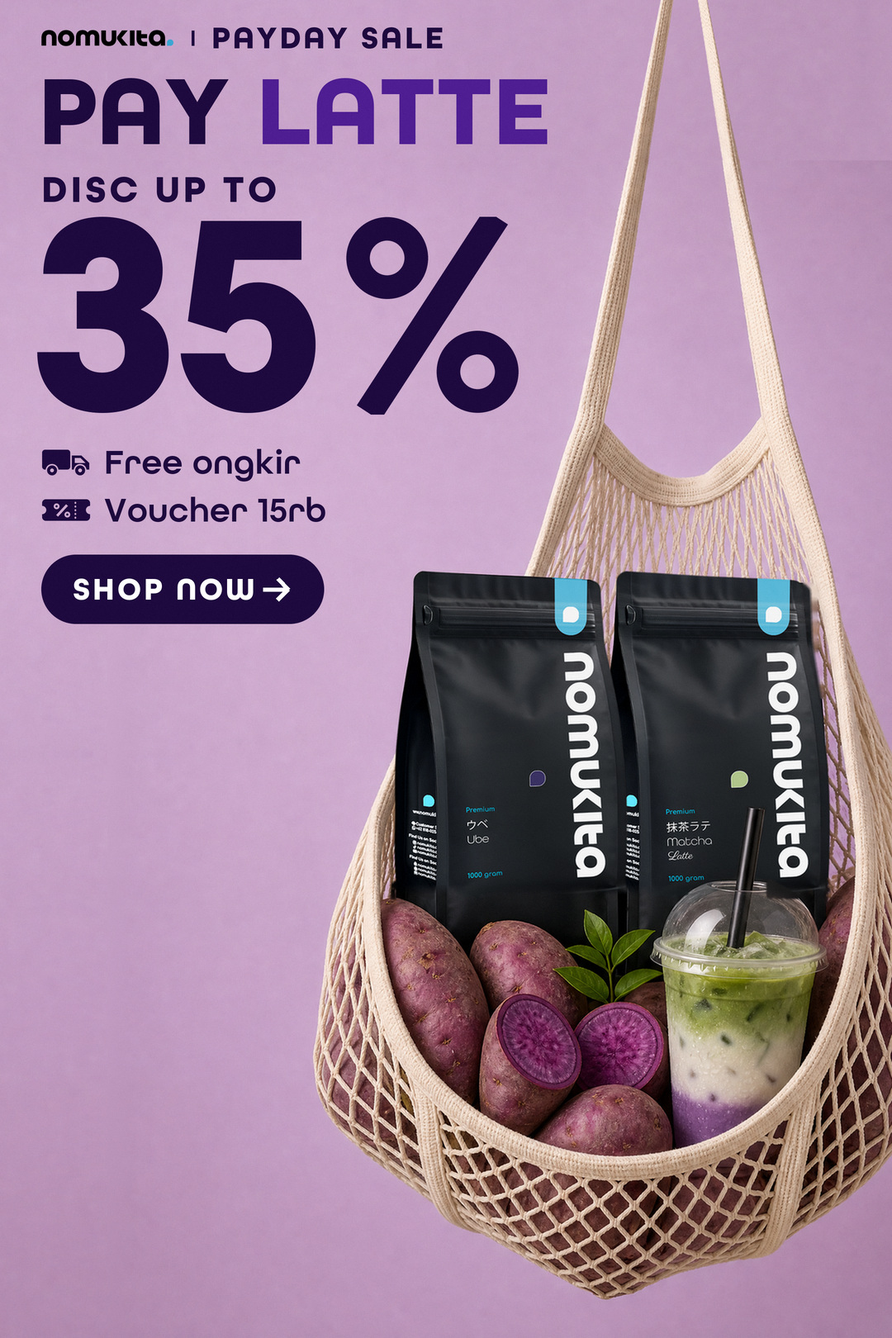
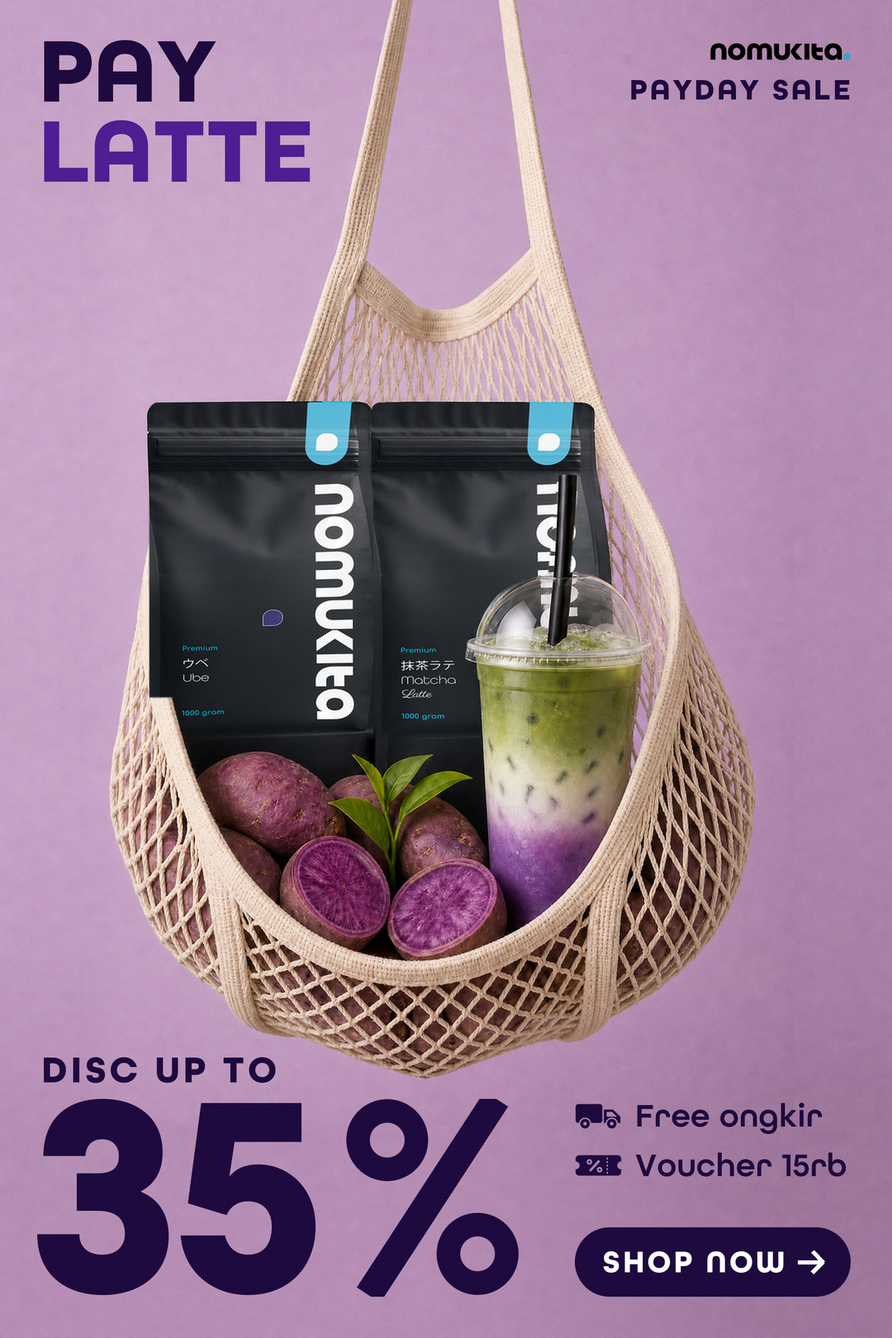
PAY LATTE v2: front-facing equal-size real pouches, hero cup, poster layout
Front panels rectified from the real Drive mockups and pasted at one
uniform size; larger cup in front; headline top, product centre, offer
band bottom (2:3) and a diagonal layout for 1:1. v1 moved to archive-v1.

Claude-Session: https://claude.ai/code/session_01Bv3a5UzTxRJwy8L4VxmgVZ

diff --git a/banners/payday-pay-latte/scripts/v2/compose_v2.py b/banners/payday-pay-latte/scripts/v2/compose_v2.py
@@ -1,0 +1,67 @@
+"""PAY LATTE payday banner v2: poster structure — headline top, product centre, offer bottom.
+Text is set in separate zones on a shared margin grid; nothing is stacked in one corner."""
+import sys, os, json
+import numpy as np
+from PIL import Image, ImageDraw
+from ptools import *
+L = json.loads(sys.argv[1]); CW, CH = L["size"]; M = L.get("margin", 50)
+bg = Image.open(L["bg"]).convert("RGB"); cv = bg.resize((CW * K, CH * K), Image.LANCZOS).convert("RGBA")
+boxes = {}
+def tw(s, fnt, tr=0): return (sum(fnt.getlength(c) for c in s)) / K + tr * (len(s) - 1)
+def put(key, x, y, s, fnt, tr=0, fill=INK, align="left"):
+    w = tw(s, fnt, tr); x0 = x - (w if align == "right" else w / 2 if align == "center" else 0)
+    text(cv, x0, y, s, fnt, tr, fill); boxes[key] = (x0, y, x0 + w, y + cap(fnt)); return x0, w
+
+# --- headline (top-left) ---
+H_ = L["head"]; fh = f(BOLD, H_["size"]); hx, hy = H_.get("x", M), H_["y"]
+if H_.get("stack", True):
+    put("PAY", hx - 4, hy, "PAY", fh, 0, INK); put("LATTE", hx - 4, hy + cap(fh) + H_.get("lead", 22), "LATTE", fh, 0, UBE)
+else:
+    x0, w = put("PAY", hx - 4, hy, "PAY ", fh, 0, INK); put("LATTE", x0 + w, hy, "LATTE", fh, 0, UBE)
+# --- brand (logo + campaign label) ---
+B = L["brand"]; lg = logo_rgba(ROOT + "/assets/logo01.jpg"); lw = B.get("logo_w", 170) * K
+lg = lg.resize((int(lw), int(lg.height * lw / lg.width)), Image.LANCZOS); lh_ = lg.height / K
+fl = f(BOLD, B.get("label", 38))
+if B["align"] == "right":
+    cv.alpha_composite(lg, (int((B["x"] - B.get("logo_w", 170)) * K), int(B["y"] * K)))
+    put("label", B["x"], B["y"] + lh_ + B.get("gap", 22), "PAYDAY SALE", fl, 3, INK, "right")
+else:
+    cv.alpha_composite(lg, (int(B["x"] * K), int(B["y"] * K))); dx = B["x"] + B.get("logo_w", 170) + 22
+    ImageDraw.Draw(cv).rectangle([dx * K, (B["y"] + 1) * K, (dx + 3) * K, (B["y"] + lh_ - 1) * K], fill=INK)
+    put("label", dx + 24, B["y"] + (lh_ - cap(fl)) / 2, "PAYDAY SALE", fl, 3, INK)
+# --- offer: DISC UP TO + 35% ---
+O = L["offer"]; fs = f(BOLD, O.get("du", 46)); dig = O["digit_h"]
+pct = pct_vec("35", dig * 0.983, INK); py = O["bottom"] - pct.height / K
+cv.alpha_composite(pct, (int((O["x"] - 5) * K), int(py * K))); boxes["35%"] = (O["x"] - 5, py, O["x"] - 5 + pct.width / K, O["bottom"])
+put("DISC UP TO", O["x"], py - O.get("gap", 20) - cap(fs), "DISC UP TO", fs, 4, INK)
+# --- benefits (vector icons) + CTA ---
+Bn = L["benefits"]; fo = f(DEMI, Bn.get("body", 40)); ih = Bn.get("icon_h", 38); bx = Bn["x"]; by = Bn["y"]
+items = [("truck", "Free ongkir"), ("ticket", "Voucher 15rb")]
+for i, (kind, s) in enumerate(items):
+    if Bn.get("row", True) is True and Bn.get("inline"):
+        pass
+    yy = by + i * Bn.get("lead", 58) if not Bn.get("inline") else by
+    xx = bx if not Bn.get("inline") or i == 0 else boxes["b0"][2] + Bn.get("sep", 44)
+    ic = icon(kind, ih, INK); cv.alpha_composite(ic, (int(xx * K), int((yy + cap(fo) / 2 - ih / 2) * K)))
+    w = tw(s, fo, 0.3); text(cv, xx + ic.width / K + 16, yy, s, fo, 0.3, INK)
+    boxes[f"b{i}"] = (xx, yy - 6, xx + ic.width / K + 16 + w, yy + cap(fo) + 6)
+C = L["cta"]; fc = f(BOLD, C.get("size", 38)); h = C.get("h", 84); aw = 30; t_w = tw("SHOP NOW", fc, 3)
+w = C.get("w") or (t_w + 2 * 38 + aw + 16); cx0 = C["x"] - (w if C.get("align") == "right" else 0); cy0 = C["bottom"] - h
+pl = Image.new("RGBA", (int(w * K * 3), int(h * K * 3)), (0, 0, 0, 0))
+ImageDraw.Draw(pl).rounded_rectangle([0, 0, pl.width - 1, pl.height - 1], radius=pl.height / 2, fill=INK + (255,))
+cv.alpha_composite(pl.resize((int(w * K), int(h * K)), Image.LANCZOS), (int(cx0 * K), int(cy0 * K)))
+tx = cx0 + (w - (t_w + 16 + aw)) / 2; text(cv, tx, cy0 + (h - cap(fc)) / 2, "SHOP NOW", fc, 3, WHITE)
+d = ImageDraw.Draw(cv); ax = (tx + t_w + 16) * K; ay = (cy0 + h / 2) * K; Lr = aw * K; th = int(5 * K)
+d.line([(ax, ay), (ax + Lr, ay)], fill=WHITE, width=th)
+d.line([(ax + Lr * 0.58, ay - Lr * 0.42), (ax + Lr + 1, ay + 1)], fill=WHITE, width=th)
+d.line([(ax + Lr * 0.58, ay + Lr * 0.42), (ax + Lr + 1, ay - 1)], fill=WHITE, width=th)
+boxes["cta"] = (cx0, cy0, cx0 + w, cy0 + h)
+print({k: tuple(round(v) for v in b) for k, b in boxes.items()})
+out = cv.convert("RGB").resize((CW, CH), Image.LANCZOS)
+a = np.asarray(out).astype(np.float32) + np.random.default_rng(11).normal(0, 1.0, (CH, CW, 1))
+out = Image.fromarray(np.clip(a, 0, 255).astype(np.uint8))
+for q in (94, 92, 90, 88):
+    out.save(L["out"], quality=q, optimize=True, progressive=True, subsampling=0)
+    if os.path.getsize(L["out"]) <= 2_000_000: break
+json.dump({k: [float(v) for v in b] for k, b in boxes.items()}, open(L["out"] + ".boxes.json", "w"))
+print("saved", L["out"], out.size, os.path.getsize(L["out"]), "bytes")

diff --git a/banners/payday-pay-latte/scripts/v2/ptools.py b/banners/payday-pay-latte/scripts/v2/ptools.py
@@ -1,0 +1,64 @@
+"""Shared drawing helpers: tracked text, vector percent block, flat vector icons."""
+import sys, os, json, math
+import numpy as np
+from PIL import Image, ImageDraw, ImageFont
+ROOT = "/tmp/claude-0/-home-user-Dom-Manipulation/cc5b59a6-6b87-5897-882c-ef3d3b14e312/scratchpad"
+sys.path.insert(0, "/home/user/Dom-Manipulation/banners/10.10-ube")
+from compose import logo_rgba
+FD = ROOT + "/assets/fonts/All Round Gothic/"
+BOLD, DEMI = FD + "Fontspring-DEMO-allroundgothic-bold.otf", FD + "Fontspring-DEMO-allroundgothic-demi.otf"
+K = 2
+INK = (30, 10, 62); UBE = (78, 30, 146); WHITE = (255, 255, 255)
+
+def f(path, size): return ImageFont.truetype(path, int(round(size * K)))
+def cap(fnt): b = fnt.getbbox("H"); return (b[3] - b[1]) / K
+def text(cv, x, y, s, fnt, tr=0, fill=INK):
+    d = ImageDraw.Draw(cv); X = x * K; top = fnt.getbbox("H")[1]
+    for c in s:
+        d.text((X, y * K - top), c, font=fnt, fill=fill); X += fnt.getlength(c) + tr * K
+    return (X - tr * K) / K - x
+
+def pct_vec(digits, digit_h, color):
+    """Digits from the Bold font + a vector % (locked in the DEMO font), figure height = digit_h px."""
+    fb = ImageFont.truetype(BOLD, 400); b5 = fb.getbbox("5"); size = 400 * digit_h * K / (b5[3] - b5[1])
+    fb = ImageFont.truetype(BOLD, int(round(size))); bb = [fb.getbbox(c) for c in digits]
+    top = min(b[1] for b in bb); H = max(b[3] for b in bb) - top
+    t = 0.135 * size; r = 0.142 * size; ring = 0.082 * size; wp = 0.60 * size; gap = 0.075 * size
+    wd = sum(fb.getlength(c) for c in digits) - 0.02 * size * (len(digits) - 1)
+    Wt = int(wd + gap + wp + 8); ss = 3
+    lay = Image.new("RGBA", (Wt, int(H + 8)), (0, 0, 0, 0)); d = ImageDraw.Draw(lay); x = 0
+    for c in digits:
+        d.text((x, -top), c, font=fb, fill=color + (255,)); x += fb.getlength(c) - 0.02 * size
+    m = Image.new("L", (int((wp + 4) * ss), int((H + 4) * ss)), 0); md = ImageDraw.Draw(m)
+    Rr = r * ss; RI = (r - ring) * ss; c1 = (Rr + 2, Rr + 2); c2 = (wp * ss - Rr - 2, H * ss - Rr - 2)
+    for c0 in (c1, c2):
+        md.ellipse([c0[0] - Rr, c0[1] - Rr, c0[0] + Rr, c0[1] + Rr], fill=255); md.ellipse([c0[0] - RI, c0[1] - RI, c0[0] + RI, c0[1] + RI], fill=0)
+    q1 = (wp * ss - r * 0.55 * ss, 0); q2 = (r * 0.55 * ss, H * ss); dx, dy = q2[0] - q1[0], q2[1] - q1[1]; Ln = math.hypot(dx, dy)
+    nx, ny = -dy / Ln, dx / Ln; th = t * 0.72 / 2 * ss
+    md.polygon([(q1[0] + nx * th, q1[1] + ny * th), (q1[0] - nx * th, q1[1] - ny * th), (q2[0] - nx * th, q2[1] - ny * th), (q2[0] + nx * th, q2[1] + ny * th)], fill=255)
+    m = m.resize((int(wp + 4), int(H + 4)), Image.LANCZOS)
+    col = Image.new("RGBA", m.size, color + (255,)); col.putalpha(m); lay.alpha_composite(col, (int(wd + gap), 0))
+    return lay.crop(lay.getbbox())
+
+def icon(kind, h, color):
+    """Flat vector icons drawn on a 120x80 grid: delivery truck / voucher ticket."""
+    ss = 8; W0, H0 = 120, 80
+    m = Image.new("L", (W0 * ss, H0 * ss), 0); d = ImageDraw.Draw(m)
+    def R(box, rad, fill=255): d.rounded_rectangle([v * ss for v in box], radius=rad * ss, fill=fill)
+    def C(cx, cy, r, fill=255): d.ellipse([(cx - r) * ss, (cy - r) * ss, (cx + r) * ss, (cy + r) * ss], fill=fill)
+    if kind == "truck":
+        R((2, 10, 70, 58), 7)                                           # cargo box
+        d.polygon([(v[0] * ss, v[1] * ss) for v in [(74, 24), (97, 24), (116, 42), (116, 58), (74, 58)]], fill=255)   # cab
+        R((74, 24, 100, 58), 5); R((96, 40, 116, 58), 5)
+        d.polygon([(v[0] * ss, v[1] * ss) for v in [(81, 30), (95, 30), (107, 42), (81, 42)]], fill=0)                # window
+        for cx in (26, 94):
+            C(cx, 60, 15.5, 0); C(cx, 60, 12); C(cx, 60, 4.6, 0)        # wheels with a gap ring
+    else:
+        R((2, 14, 118, 66), 9)                                          # ticket body
+        C(2, 40, 10, 0); C(118, 40, 10, 0)                              # side notches
+        for y in range(20, 64, 9): R((80.5, y, 84.5, y + 5), 2, 0)      # perforation
+        d.polygon([(v[0] * ss, v[1] * ss) for v in [(36, 52), (60, 26), (64.5, 30), (40.5, 56)]], fill=0)             # small % mark
+        C(37, 31, 7, 0); C(37, 31, 2.6); C(63, 51, 7, 0); C(63, 51, 2.6)
+    w = round(h * K * W0 / H0); m = m.resize((w, int(h * K)), Image.LANCZOS)
+    lay = Image.new("RGBA", m.size, color + (255,)); lay.putalpha(m); return lay
+

diff --git a/banners/payday-pay-latte/scripts/v2/place_scene.py b/banners/payday-pay-latte/scripts/v2/place_scene.py
@@ -1,0 +1,59 @@
+"""Place the photographed scene on a canvas at scale S with its top-left at (ox, oy), without AI:
+the plain lilac backdrop is continued on every side with the scene's own texture, and the two handle
+straps are continued straight up to the top edge keeping their slope and taper."""
+import numpy as np, cv2
+from PIL import Image
+
+def place(scene_path, CW, CH, S, ox, oy, out):
+    A = np.asarray(Image.open(scene_path).convert('RGB')).astype(np.float32)
+    H, W, _ = A.shape
+    Lp = max(0, int(np.ceil(ox / S)) + 2); Rp = max(0, int(np.ceil((CW - ox) / S - W)) + 2)
+    Tp = max(0, int(np.ceil(oy / S)) + 2); Bp = max(0, int(np.ceil((CH - oy) / S - H)) + 2)
+    sm = lambda v, s: cv2.GaussianBlur(v, (0, 0), sigmaX=0.1, sigmaY=s)
+    rowL = sm(A[:, 4:34].mean(axis=1, keepdims=True), 30); rowR = sm(A[:, -34:-4].mean(axis=1, keepdims=True), 30)   # margins clear of the bag (x 46..1016)
+    def band(rows, ref):
+        b = A[rows].mean(axis=0); d = np.abs(b - ref).max(axis=1) > 14
+        d = cv2.dilate(d.astype(np.uint8)[None], np.ones((1, 41), np.uint8))[0].astype(bool); xs = np.arange(W)
+        for c in range(3): b[d, c] = np.interp(xs[d], xs[~d], b[~d, c])
+        return cv2.GaussianBlur(b[None], (0, 0), 30)[0]
+    top = band(slice(4, 24), (rowL[10, 0] + rowR[10, 0]) / 2); bot = band(slice(H - 24, H - 4), (rowL[-10, 0] + rowR[-10, 0]) / 2)
+    patch = A[0:420, 0:330]; tex = patch - cv2.GaussianBlur(patch, (0, 0), 25)
+    tile = np.vstack([np.hstack([tex, tex[:, ::-1]]), np.hstack([tex[::-1], tex[::-1, ::-1]])])
+    def texture(h, w, oy_=0, ox_=0):
+        reps = (int(np.ceil((h + oy_) / tile.shape[0])), int(np.ceil((w + ox_) / tile.shape[1])), 1)
+        return np.tile(tile, reps)[oy_:oy_ + h, ox_:ox_ + w]
+    He, We = Tp + H + Bp, Lp + W + Rp
+    E = np.zeros((He, We, 3), np.float32)
+    # low-frequency backdrop field for the pads
+    colbot = np.vstack([np.repeat(bot[:1], Lp, axis=0), bot, np.repeat(bot[-1:], Rp, axis=0)])
+    coltop = np.vstack([np.repeat(top[:1], Lp, axis=0), top, np.repeat(top[-1:], Rp, axis=0)])
+    if Tp: E[:Tp] = coltop[None] + texture(Tp, We, 37, 5)
+    if Bp: E[Tp + H:] = colbot[None] + texture(Bp, We, 11, 71)
+    if Lp: E[Tp:Tp + H, :Lp] = rowL + texture(H, Lp, 0, 111)
+    if Rp: E[Tp:Tp + H, Lp + W:] = rowR + texture(H, Rp, 90, 13)
+    E[Tp:Tp + H, Lp:Lp + W] = A
+    # straps continued upward
+    if Tp:
+        N = 240; rc = (rowL[:N] + rowR[:N]) / 2
+        m = (np.abs(A[:N] - rc).max(axis=2) > 22).astype(np.uint8)
+        n, lab, st, _ = cv2.connectedComponentsWithStats(m); X = np.arange(W, dtype=np.float32)
+        for i in [i for i in range(1, n) if st[i, cv2.CC_STAT_HEIGHT] > N * 0.9]:
+            comp = (lab == i); soft = cv2.GaussianBlur(comp.astype(np.float32), (0, 0), 1.0); ys = np.arange(N)
+            le = np.array([np.where(comp[y])[0].min() for y in ys]); ri = np.array([np.where(comp[y])[0].max() for y in ys])
+            cb, ca = np.polyfit(ys, (le + ri) / 2.0, 1); wb, wa = np.polyfit(ys, (ri - le).astype(float), 1)
+            for j in range(1, Tp + 1):
+                ys_ = (j - 1) % (2 * N); ys_ = ys_ if ys_ < N else 2 * N - 1 - ys_
+                cd, wd = ca + cb * (-j), max(10.0, wa + wb * (-j)); cs, ws = ca + cb * ys_, wa + wb * ys_
+                u = (X - cd) * (ws / wd) + cs
+                a = np.interp(u, X, soft[ys_], left=0, right=0)[:, None]
+                rgb = np.stack([np.interp(u, X, A[ys_, :, c]) for c in range(3)], axis=1)
+                seg = E[Tp - j, Lp:Lp + W]; E[Tp - j, Lp:Lp + W] = seg * (1 - a) + rgb * a
+            print("  strap: centre at scene top", round(float(ca)), "slope", round(float(cb), 3), "width", round(float(wa)), "-> centre at canvas top", round(ox + S * (ca + cb * (-Tp))))
+    img = Image.fromarray(np.clip(E, 0, 255).astype(np.uint8))
+    img = img.resize((round(We * S), round(He * S)), Image.LANCZOS)
+    cv = Image.new('RGB', (CW, CH)); cv.paste(img, (round(ox - Lp * S), round(oy - Tp * S))); cv.save(out)
+    print(out, "S", S, "at", (ox, oy), "pads LRTB", Lp, Rp, Tp, Bp)
+
+if __name__ == "__main__":
+    import sys; a = sys.argv
+    place(a[1], int(a[2]), int(a[3]), float(a[4]), float(a[5]), float(a[6]), a[7])

diff --git a/banners/payday-pay-latte/scripts/v2/repouch2.py b/banners/payday-pay-latte/scripts/v2/repouch2.py
@@ -1,0 +1,49 @@
+"""Paste the real front panels (rectified from the Drive mockups) over the AI pouches of H_A.png.
+Both pouches get exactly the same size and the real aspect ratio; the cup, dome, straw, yams and leaves stay in front."""
+import cv2, numpy as np
+from PIL import Image, ImageDraw
+ai = np.asarray(Image.open('H_A.png').convert('RGB')).astype(np.float32); Hh, Ww, _ = ai.shape
+PW, TOP = 486, 748
+POS = {'matcha': 624, 'ube': 146}
+lum = ai.mean(axis=2); sat = ai.max(axis=2) - ai.min(axis=2); R, G, B = ai[..., 0], ai[..., 1], ai[..., 2]
+ys = np.arange(Hh)[:, None]; xs = np.arange(Ww)[None, :]
+def poly(pts):
+    im = Image.new('L', (Ww, Hh), 0); ImageDraw.Draw(im).polygon(pts, fill=255); return np.asarray(im) > 0
+def front(name):
+    p = Image.open(f'front_{name}.png').convert('RGBA').crop((0, 0, 668, 1004))
+    m = Image.new('L', p.size, 0); ImageDraw.Draw(m).rounded_rectangle([0, 0, p.width - 1, p.height + 60], radius=22, fill=255)
+    p.putalpha(Image.fromarray(np.minimum(np.asarray(p)[..., 3], np.asarray(m))))
+    p = p.resize((PW, round(p.height * PW / p.width)), Image.LANCZOS)
+    lay = Image.new('RGBA', (Ww, Hh), (0, 0, 0, 0)); lay.paste(p, (POS[name], TOP)); a = np.asarray(lay).astype(np.float32)
+    return a[..., :3], a[..., 3] / 255.0, p.size
+cup = poly([(832, 1270), (848, 1218), (884, 1172), (930, 1141), (990, 1121), (1060, 1114), (1130, 1121), (1190, 1141), (1240, 1175),
+            (1260, 1270), (1260, 1340), (1230, 1700), (880, 1700), (850, 1340), (826, 1330)])
+straw = poly([(1028, 902), (1072, 904), (1052, 1130), (1006, 1128)])
+cream = (R - B > 22) & (lum > 120) & (xs < 300) & (ys > 1385)
+cream = cv2.dilate(cream.astype(np.uint8), np.ones((5, 5), np.uint8)).astype(bool)
+low = (ys > 1470) & (lum > 62) & (sat > 24)                      # yams and leaves
+low = cv2.dilate(cv2.morphologyEx(low.astype(np.uint8), cv2.MORPH_OPEN, np.ones((5, 5), np.uint8)), np.ones((5, 5), np.uint8)).astype(bool)
+occ = cup | straw | low | cream
+out = ai.copy()
+# AI print left under / below the real print (its taller layout): paint it back to plain film
+zone = (ys > 1436) & (ys < 1505) & (xs > 150) & (xs < 1106) & ~occ
+ghost = cv2.dilate((zone & ((lum > 70) | (B - R > 25))).astype(np.uint8), np.ones((7, 7), np.uint8)).astype(np.float32)
+film_m = (zone & (lum < 55)).astype(np.float32)
+film = cv2.GaussianBlur(ai * film_m[..., None], (0, 0), 14) / np.maximum(cv2.GaussianBlur(film_m, (0, 0), 14), 1e-3)[..., None]
+g = cv2.GaussianBlur(ghost, (0, 0), 1.5)[..., None] * (cv2.GaussianBlur(film_m, (0, 0), 14) > 0.02)[..., None]
+out = out * (1 - g) + film * g
+print("AI print px painted out below the real print:", int(ghost.sum()))
+for name in ('matcha', 'ube'):
+    rgb, al, size = front(name); rl = rgb.mean(axis=2)
+    valid = ((al > 0.98) & (rl < 70) & (lum < 70) & ~occ).astype(np.float32)
+    num = cv2.GaussianBlur(lum * valid, (0, 0), 30); den = cv2.GaussianBlur(rl * valid, (0, 0), 30); ws = cv2.GaussianBlur(valid, (0, 0), 30)
+    ratio = np.clip(np.where(ws > 0.02, (num + 2) / (den + 2), 1.0), 0.78, 1.25)
+    keep = np.clip((rl - 70) / 70.0, 0, 1); ratio = ratio * (1 - keep) + np.maximum(ratio, 0.97) * keep
+    P = np.clip(rgb * ratio[..., None], 0, 255)
+    fade = np.clip((TOP + size[1] - 3 - ys) / 26.0, 0, 1)            # soft bottom edge into the AI film below
+    a = cv2.erode((al * 255).astype(np.uint8), np.ones((3, 3), np.uint8)).astype(np.float32) / 255
+    a = a * fade * (1 - cv2.GaussianBlur(occ.astype(np.float32), (0, 0), 1.2)); a = cv2.GaussianBlur(a, (0, 0), 0.7)[..., None]
+    out = out * (1 - a) + P * a
+    print(name, "pasted", size, "at x", POS[name], "-", POS[name] + size[0], "y", TOP, "-", TOP + size[1], "aspect", round(size[0] / size[1], 4))
+# any AI pouch film still showing outside the two real silhouettes (above the yams)?
+Image.fromarray(np.clip(out, 0, 255).astype(np.uint8)).save('H_REAL.png')

diff --git a/banners/payday-pay-latte/scripts/v2/guide.py b/banners/payday-pay-latte/scripts/v2/guide.py
@@ -1,0 +1,48 @@
+"""Guide composite: the two REAL rectified fronts at exactly the same size inside scene B; AI then only harmonizes."""
+import numpy as np, cv2, json
+from PIL import Image, ImageDraw
+B = Image.open('V2_B.png').convert('RGB'); Bn = np.asarray(B).astype(np.float32); Hh, Ww = Bn.shape[:2]
+PW = 470; TOP = 745; XU, XM = 150, 622
+def front(name):
+    p = Image.open(f'front_{name}.png').convert('RGBA').crop((0, 0, 668, 1004))      # front panel only (no side bulge, no base curve)
+    m = Image.new('L', p.size, 0); ImageDraw.Draw(m).rounded_rectangle([0, 0, p.width - 1, p.height + 60], radius=22, fill=255)
+    p.putalpha(Image.fromarray(np.minimum(np.asarray(p)[..., 3], np.asarray(m))))
+    return p.resize((PW, round(p.height * PW / p.width)), Image.LANCZOS)
+u, m = front('ube'), front('matcha'); print("pouch px", u.size, "aspect", round(u.width / u.height, 4))
+# remove what is left of the wider AI pouch on the right (it is now uncovered): rough fill, the harmonize pass redraws it
+lum0 = Bn.mean(axis=2); ys0 = np.arange(Hh)[:, None]; xs0 = np.arange(Ww)[None, :]
+rem = np.zeros((Hh, Ww), np.uint8)
+rem[735:1250, XM + PW - 8:1240] = 1                                   # everything right of the new pouch edge, down to the lid
+im_ = Image.new('L', (Ww, Hh), 0); ImageDraw.Draw(im_).polygon([(978, 885), (1040, 885), (1030, 1105), (968, 1105)], fill=255)
+rem[np.asarray(im_) > 0] = 0                                           # keep the straw
+keep_hi = (lum0 > 150) & (Bn[..., 0] - Bn[..., 2] > 12) & (xs0 > 1195)  # keep the bag rim / mesh at the far right
+rem[keep_hi] = 0
+Bf = cv2.inpaint(np.clip(Bn, 0, 255).astype(np.uint8), rem * 255, 12, cv2.INPAINT_TELEA)
+# plain black film below the real pouches, down to the yams (hides the AI print that would peek out)
+Bf[1440:1560, XU + 8:XM + PW - 8] = (24, 25, 30)
+B = Image.fromarray(Bf); 
+cv = B.convert('RGBA'); cv.alpha_composite(m, (XM, TOP)); cv.alpha_composite(u, (XU, TOP))
+C = np.asarray(cv.convert('RGB')).astype(np.float32)
+lum = Bn.mean(axis=2); R, G, Bl = Bn[..., 0], Bn[..., 1], Bn[..., 2]; ys = np.arange(Hh)[:, None]; xs = np.arange(Ww)[None, :]
+cream = (R - Bl > 22) & (lum > 120) & (xs < 330) & (ys > 1150)
+low = (ys > 1445) & (lum > 62) & ~((Bl - R > 35) & (G > 100)) & ~((np.abs(R - Bl) < 16) & (lum > 110))
+def poly(pts):
+    im = Image.new('L', (Ww, Hh), 0); ImageDraw.Draw(im).polygon(pts, fill=255); return np.asarray(im) > 0
+cup = poly([(812, 1232), (1212, 1232), (1212, 1290), (1190, 1300), (1150, 1900), (880, 1900), (838, 1300), (812, 1290)])
+straw = poly([(986, 893), (1032, 893), (1022, 1100), (976, 1100)])
+dome = poly([(815, 1250), (832, 1190), (870, 1135), (930, 1100), (1010, 1088), (1090, 1100), (1150, 1135), (1190, 1190), (1208, 1250)])
+Bn = np.asarray(B).astype(np.float32)   # B now = inpainted version
+fg = cream | low | cup | straw
+fg = cv2.morphologyEx(fg.astype(np.uint8), cv2.MORPH_OPEN, np.ones((3, 3), np.uint8)).astype(np.float32)
+a = cv2.GaussianBlur(fg, (0, 0), 1.0)[..., None]
+Borig = np.asarray(Image.open('V2_B.png').convert('RGB')).astype(np.float32)
+out = C * (1 - a) + Borig * a
+# dome: add only its bright reflections over what is now behind it
+hl = np.clip((Borig.mean(axis=2) - 150) / 60.0, 0, 1) * dome * (np.abs(Borig[..., 0] - Borig[..., 2]) < 26) * ~((xs > 1075) & (xs < 1170) & (ys < 1245))
+hl = cv2.GaussianBlur(hl.astype(np.float32), (0, 0), 1.2)[..., None] * 0.8
+out = out * (1 - hl) + 255 * hl
+# through the dome, right of the new pouch edge, nothing dark should remain
+
+Image.fromarray(np.clip(out, 0, 255).astype(np.uint8)).save('guide2.png')
+json.dump(dict(PW=PW, PH=u.height, TOP=TOP, XU=XU, XM=XM), open('guide2.json', 'w'))
+Image.fromarray(np.clip(out, 0, 255).astype(np.uint8)).crop((100, 620, 1320, 1700)).resize((915, 810)).save('guide2_t.jpg', quality=90)

diff --git a/banners/payday-pay-latte/scripts/v2/rectify.py b/banners/payday-pay-latte/scripts/v2/rectify.py
@@ -1,0 +1,23 @@
+"""Turn the angled Drive mockup into a front view: perspective-rectify the FRONT panel (real pixels, only warped),
+drop the side gusset, round the cut corners. Output: v2/front_<name>.png (RGBA)."""
+import cv2, numpy as np, sys
+from PIL import Image, ImageDraw
+W, H = 656, 982
+SRC = np.float32([[165, 28], [676, 46], [733, 985], [190, 1010]])     # front panel corners in the 800x1091 mockup
+DST = np.float32([[0, 0], [W, 0], [W, H], [0, H]])
+M = cv2.getPerspectiveTransform(SRC, DST)
+PADR, PADB = 60, 70                                                    # room for the bulging right edge and the base curve
+for name in ('ube', 'matcha'):
+    p = np.asarray(Image.open(f'mock_{name}_1000.png').convert('RGBA')).astype(np.float32)
+    out = cv2.warpPerspective(p, M, (W + PADR, H + PADB), flags=cv2.INTER_LANCZOS4, borderValue=0)
+    a = out[..., 3] / 255.0
+    # left side: cut at the fold, with rounded top-left / bottom-left corners like the real pouch
+    m = Image.new('L', (W + PADR, H + PADB), 0); d = ImageDraw.Draw(m)
+    d.rounded_rectangle([2, 0, W + PADR + 200, H + PADB + 200], radius=26, fill=255)
+    a = np.minimum(a, np.asarray(m).astype(np.float32) / 255.0)
+    a = cv2.GaussianBlur(a, (0, 0), 0.8)
+    out[..., 3] = a * 255
+    im = Image.fromarray(np.clip(out, 0, 255).astype(np.uint8), 'RGBA'); im = im.crop(im.getbbox()); im.save(f'v2/front_{name}.png')
+    print(name, im.size)
+a = Image.open('v2/front_ube.png'); b = Image.open('v2/front_matcha.png')
+s = Image.new('RGB', (a.width + b.width + 60, a.height + 40), (205, 172, 206)); s.paste(a, (20, 20), a); s.paste(b, (a.width + 40, 20), b); s.save('v2/fronts.jpg', quality=92)

diff --git a/banners/payday-pay-latte/scripts/v2/verify2.py b/banners/payday-pay-latte/scripts/v2/verify2.py
@@ -1,0 +1,20 @@
+import sys, json, numpy as np, os
+from PIL import Image
+out, bgp = sys.argv[1], sys.argv[2]
+im = Image.open(out); a = np.asarray(im.convert('RGB')).astype(float); bx = json.load(open(out + '.boxes.json'))
+x0, y0, x1, y1 = [int(v) for v in bx['35%']]
+ink = (a[..., 0] < 80) & (a[..., 2] < 130) & (a[..., 1] < 60)
+r = np.where(ink[y0 - 4:y1 + 4, x0:x0 + 330].sum(axis=1) > 8)[0]
+print(os.path.basename(out), im.size, os.path.getsize(out), "bytes | digit height", r.max() - r.min() + 1, "px =", round(100 * (r.max() - r.min() + 1) / im.width, 2), "% of width")
+bg = np.asarray(Image.open(bgp).convert('RGB')).astype(float)
+def rl(c):
+    c = c / 255; c = np.where(c <= 0.03928, c / 12.92, ((c + 0.055) / 1.055) ** 2.4); return 0.2126 * c[..., 0] + 0.7152 * c[..., 1] + 0.0722 * c[..., 2]
+Lm = rl(bg); ink_l = rl(np.array([[30, 10, 62]], float))[0]; ube_l = rl(np.array([[78, 30, 146]], float))[0]
+cr = lambda p, q: (max(p, q) + 0.05) / (min(p, q) + 0.05)
+for k, b in bx.items():
+    X0, Y0, X1, Y1 = [int(round(v)) for v in b]; reg = Lm[Y0:Y1, X0:X1]; lo, hi = np.percentile(reg, 5), np.percentile(reg, 95)
+    c = ube_l if k == 'LATTE' else ink_l
+    med = np.median(bg[Y0:Y1, X0:X1].reshape(-1, 3), axis=0); obj = (np.abs(bg[Y0:Y1, X0:X1] - med).max(axis=2) > 30).mean()
+    # clearance: nearest photo object around the box
+    pad = 24; reg2 = bg[max(0, Y0 - pad):Y1 + pad, max(0, X0 - pad):X1 + pad]; near = (np.abs(reg2 - med).max(axis=2) > 30).mean()
+    print(f"  {k:11s} contrast {min(cr(c, lo), cr(c, hi)):.1f}:1 | photo under text {100 * obj:.1f}% | photo within 24 px {100 * near:.1f}%")

diff --git a/banners/payday-pay-latte/README.md b/banners/payday-pay-latte/README.md
@@ -1,9 +1,42 @@
 # PAY LATTE, banner payday (Ube & Matcha Latte 1000 g, Ube Matcha Latte)
 
-File
-- `pay-latte-payday-1080x1620.jpg` (2:3, 0,51 MB)
+File (versi 2, aktif)
+- `pay-latte-payday-1080x1620.jpg` (2:3, 0,52 MB)
 - `pay-latte-payday-1080x1080.jpg` (1:1, 0,34 MB)
+- Versi pertama (pouch miring, teks menumpuk di kiri atas, cup kecil) ada di `archive-v1/`.
 
+Versi 2: apa yang diubah
+- Pouch menghadap DEPAN. Di Drive tidak ada foto 1000 g tampak depan (semua file memakai mockup miring yang sama),
+  jadi panel depan mockup asli diluruskan dengan transformasi perspektif (`scripts/v2/rectify.py`): cetakannya tetap
+  piksel dari file asli, panel samping dibuang.
+- Kedua pouch berukuran SAMA PERSIS: 486 x 730 px pada foto 1536 x 2304 (rasio 0,666 = rasio panel depan mockup).
+  Varian AI pertama menggambar Matcha Latte lebih lebar dari Ube; sekarang dua panel depan asli ditempel dengan skala
+  seragam yang sama (`scripts/v2/repouch2.py`). Cup, tutup kubah, sedotan, ube, dan daun tetap di depan pouch.
+  Di balik tutup kubah yang bening dan di bawah garis ube, yang terlihat adalah pouch versi AI.
+- Minuman jadi tokoh utama: cup Ube Matcha Latte besar di depan kanan, terlihat langsung (tidak di balik jaring).
+- Struktur poster, teks tidak lagi menumpuk di satu sudut:
+  - 2:3: judul PAY LATTE kiri atas, logo + PAYDAY SALE kanan atas, tas di tengah, lalu pita bawah:
+    DISC UP TO 35% di kiri, Free ongkir / Voucher 15rb / SHOP NOW di kanan.
+  - 1:1: judul + 35% kiri atas, tas kanan bawah, Free ongkir / Voucher 15rb / SHOP NOW kiri bawah.
+- Tas ditaruh dan diperbesar tanpa AI (`scripts/v2/place_scene.py`): latar lilac dan tali tas dilanjutkan dari foto.
+
+Alur foto v2
+1. `source/v2-scene-ai-raw.jpg`: scene AI (GPT Image 2) dengan panel depan asli sebagai acuan.
+2. `source/v2-guide-real-pouches.jpg`: dua panel depan asli ditempel dengan ukuran sama.
+3. `source/v2-harmonized-ai.jpg`: AI merapikan sambungan, tutup kubah, dan area di kanan pouch.
+4. `source/v2-scene-final-real-print.jpg`: cetakan asli ditempel ulang dengan skala seragam.
+
+Pengukuran v2 (`scripts/v2/verify2.py`)
+- Tinggi angka 35 = 237 px (21,94% lebar) di kedua ukuran.
+- Kontras terburuk 2:3: PAY 7,7:1, LATTE 4,9:1, PAYDAY SALE 5,9:1, DISC UP TO 6,7:1, 35% 6,1:1, manfaat 4,7:1, tombol 4,7:1
+  terhadap latar (teks putih di tombol 18:1). Pita bawah lebih rendah karena latar foto lebih gelap di bawah.
+- Kontras terburuk 1:1: 7,0:1 sampai 8,0:1 untuk semua teks, LATTE 4,7:1.
+- Tidak ada objek foto di bawah teks maupun dalam jarak 24 px dari blok teks.
+
+Kredit kie.ai v2: 50 (3 varian scene + 2 varian perapian), dari key baru. Saldo key baru 8.586.
+
+---
+Catatan versi 1
 Copy
 - Header: PAY LATTE (plesetan PayLater; "LATTE" berwarna ungu). Label kecil PAYDAY SALE di samping logo supaya jelas ini
   promo gajian, bukan cicilan.
